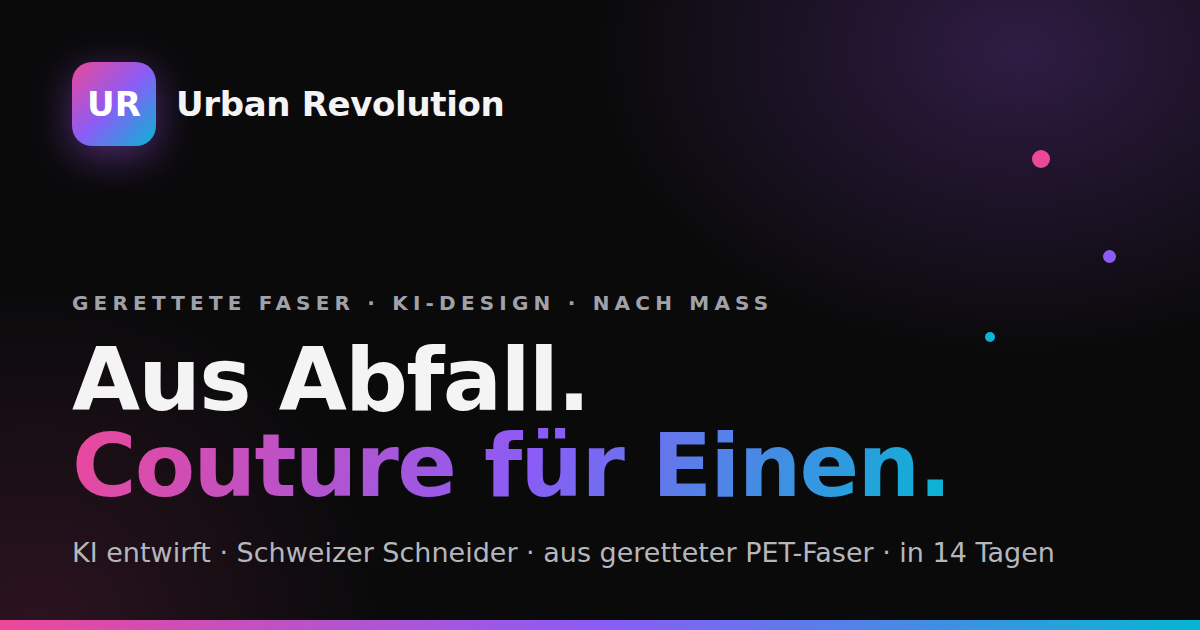
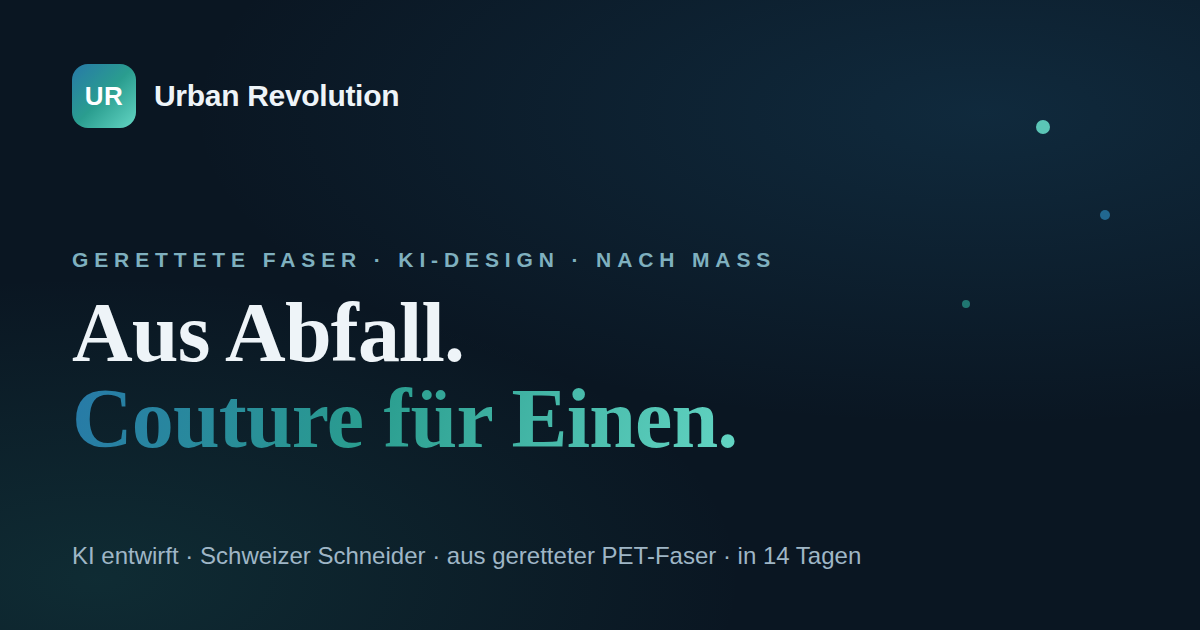
Aufräumen: letzte Farbreste auf Ocean Depths (manifest, og-image, archetypes, Doku) (#210)
* chore(brand): letzte Farbreste auf Ocean Depths angleichen + Doku

Vollständiger Repo-Scan ergab: Code (js/css/html/svg) ist bereits 0 % Alt-Neon.
Restliche Stellen jetzt auch auf die Live-Ocean-Palette gebracht:

- manifest.webmanifest: background_color/theme_color #0a0a0b → #0a1622 (Navy).
- og-image.png: neu gerendert in Ocean (Navy-BG, Teal-Badge, Ozean-Gradient-
  Headline in Lora) statt der alten Pink/Violett/Cyan-Karte.
- archetypes.json Garment-Defaults: y2kStreet [#ec4899,#06b6d4] → [#2a9d8f,#64d6c4],
  sport […,#06b6d4] → […,#64d6c4] — die letzten alten Marken-Pink/Cyan-Werte raus.
- CLAUDE.md: Design-System-Zeile auf Ocean Depths (Navy + Blau/Teal/Aqua) statt
  pink→violett→cyan aktualisiert.

Scan-Ergebnis außerdem: keine Orphan-/nicht-integrierten JS-Dateien (js/3d/ ist
längst entfernt), keine echten Konsolen-/JS-Fehler (nur die erwartbaren lokalen
/_vercel/*-404), alle 8 Test-Suites grün.

* fix(brand): theme-color der Rechtsseiten auf Navy #0a1622 (Review #210)

Vom Vercel-Agent-Review zurecht angemerkt: die <meta name=theme-color> in
impressum.html/datenschutz.html trugen noch #0a0a0b (in #206 nur deren Favicon
ersetzt). Jetzt Navy wie index.html. (Der inference.js-Abdunkel-Zielwert bleibt
bewusst neutral-schwarz — das ist Garment-Farb-Mathe, kein Marken-Chrome.)

---------

diff --git a/datenschutz.html b/datenschutz.html
@@ -3,7 +3,7 @@
 <head>
     <meta charset="UTF-8">
     <meta name="viewport" content="width=device-width, initial-scale=1.0, viewport-fit=cover">
-    <meta name="theme-color" content="#0a0a0b">
+    <meta name="theme-color" content="#0a1622">
     <meta name="color-scheme" content="dark">
     <meta name="robots" content="index, follow">
     <title>Datenschutz — Urban Revolution</title>

diff --git a/impressum.html b/impressum.html
@@ -3,7 +3,7 @@
 <head>
     <meta charset="UTF-8">
     <meta name="viewport" content="width=device-width, initial-scale=1.0, viewport-fit=cover">
-    <meta name="theme-color" content="#0a0a0b">
+    <meta name="theme-color" content="#0a1622">
     <meta name="color-scheme" content="dark">
     <meta name="robots" content="index, follow">
     <title>Impressum — Urban Revolution</title>

diff --git a/CLAUDE.md b/CLAUDE.md
@@ -20,7 +20,7 @@ Tagline „Made for one. Not for all." · AI · 3D · COUTURE. Deploy: Vercel. S
 - State: `state-manager.js` (localStorage, Wiederaufnahme). KI: `ai.js` → Replicate (FLUX) / Anthropic-Proxy. Maße: `measurements.js` (9 Körpermaße). i18n: `i18n.js`. Telemetrie: `js/design-engine/telemetry.js` → `/api/track`. Fehler: Sentry (Loader im `<head>`).
 
 ## Design-System — NUR bestehende :root-Tokens
-- Hintergrund `#0A0A0B`; Akzent-Verlauf pink → violett → cyan (`--gradient`).
+- Hintergrund Midnight-Navy `#0A1622`; Akzent-Verlauf Ozean-Blau `#2779A8` → Teal `#2A9D8F` → Aqua `#64D6C4` (`--gradient`, „Ocean Depths").
 - Fonts: NUR Lora (Display) + Poppins (Body). KEINE anderen Fonts (kein Inter, kein Playfair).
 - Gefühl: ruhig, cineastisch, eine Frage groß, viel Negativraum; Übergänge ≤ 250 ms; kein Layout-Sprung.
 
